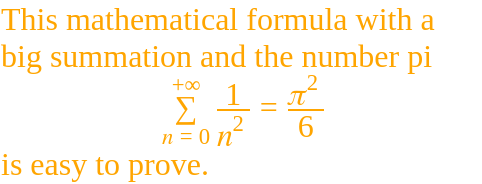
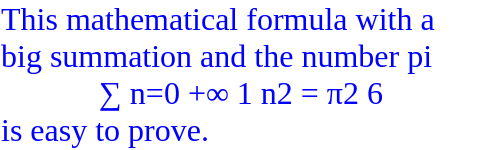
update style use to improve legibility of example

Changed region(s): [[0.0, 0.24, 0.9025, 0.8], [0.0, 0.0267, 0.9025, 0.2133], [0.0, 0.8, 0.4357, 1.0]]

diff --git a/examples/example-style.html b/examples/example-style.html
@@ -1,4 +1,4 @@
-<div style="width: 15em; color: orange">
+<div style="width: 15em; color: blue;">
   This mathematical formula with a big summation and the number pi
   <math display="block" style="font-family: STIX Two">
     <mrow>
